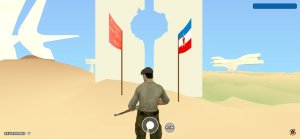
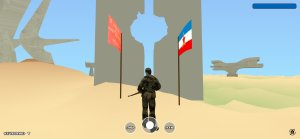
promeniti junaka negde

diff --git a/examples/80-scenes/spomeniks/main.js b/examples/80-scenes/spomeniks/main.js
@@ -37,8 +37,8 @@ void function loop() {
 
 /* LAZY LOAD */
 
-const { ResistanceFighterPlayer } = await import ('/utils/actor/derived/ww2/ResistanceFighter.js')
-player = new ResistanceFighterPlayer({ camera, solids: terrain, altitude: .7 })
+const { PartisanPlayer } = await import ('/utils/actor/derived/ww2/Partisan.js')
+player = new PartisanPlayer({ camera, solids: terrain, altitude: .7 })
 player.position.z = 2
 
 const GUI = await import('/utils/io/GUI.js')

diff --git a/README.md b/README.md
@@ -20,7 +20,6 @@ npx live-server
 ## TODO
 
 - centralni ekran sa izborom scena 
-  - promeniti junaka negde da ne bude uvek isti
   - bolja imena
 - ići redom po html fajlovima, srediti titlove i dodati izvor gde treba
 - popraviti lightningStrike
@@ -31,7 +30,8 @@ npx live-server
 
 ## BUGS:
 
-- models without color: fortress, iron-giant...
+- modeli bez teksture nemaju boju: fortress, iron-giant, spomeniks...
+  - srediti bar u igrama i scenama
 - srediti svetla, da defaults budu dobre bar za igrice (proveriti migration guide)
   - nema senke physics-cannon
 
